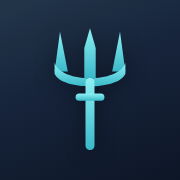
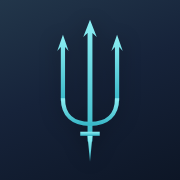
Redraw the trident after the island artwork
The mark was three plain tines on a crescent — legible, but generic. It is now
drawn from the trident on the island's own logo: slender spikes with
swept-back arrowhead barbs, rising from a deep bowl, on a shaft that tapers to
a point.

Getting there meant cropping and enlarging the artwork rather than working
from the thumbnail. At a glance the outer tines look like curved blades on a
crossbar, and two attempts at that read as a signpost. Enlarged, the
construction is a psi: every tine is a thin spike with an arrowhead, and the
outer two sweep down and inward in a single bowl. That is a different shape
entirely, and it is the one that matches.

The bowl is a stroke rather than part of the filled outline. As a filled path
its inner curve left a visible notch where it met the shaft; a stroke overlaps
both cleanly and holds its weight at any size.

The browser tab icon keeps the older, heavier trident on purpose. These spikes
are elegant at 32px and mush at 16px, which is the size a tab actually gets.
The iOS home screen icon renders at 92px and takes the detailed mark.

Claude-Session: https://claude.ai/code/session_01MSLbbeZ2Y4KS9S9Uta44MV

Changed region(s): [[0.2778, 0.1111, 0.7222, 0.8889]]

diff --git a/web/components/ui/TridentMark.tsx b/web/components/ui/TridentMark.tsx
@@ -1,14 +1,20 @@
 /**
- * The Trident Island mark.
+ * The Trident Island mark, after the trident on the island's own artwork:
+ * three slender spikes with swept-back arrowhead barbs, rising from a deep
+ * bowl, on a shaft that tapers to a point.
  *
- * Drawn inline rather than shipped as an asset: it stays sharp at any size,
- * costs no extra request, and picks up whatever colour it's placed in. Sizing
- * comes from the className (the viewBox is 32×44, so it's taller than wide —
- * give it a height, not a width).
+ * Drawn inline rather than shipped as an asset so it stays sharp at any size,
+ * costs no extra request, and takes its colour from wherever it's placed.
+ * Sizing comes from the className — the viewBox is 34×54, taller than wide, so
+ * give it a height rather than a width.
  *
- * The geometry is deliberately simple. Three straight tines and a crescent
- * yoke survive being drawn at 16px in a browser tab, which barbs and tapered
- * curves do not.
+ * The bowl is a stroke rather than part of the outline. As a filled path its
+ * inner curve left a small notch where it met the shaft; a stroke overlaps
+ * both cleanly and keeps its weight when the mark is scaled.
+ *
+ * This is the detailed mark, for anywhere it renders at ~32px or larger. The
+ * browser tab icon (app/icon.svg) stays a heavier, simpler trident, because
+ * these spikes go to mush at 16px.
  */
 
 type Props = {
@@ -20,24 +26,31 @@ type Props = {
 export function TridentMark({ className = "h-10", title }: Props) {
   return (
     <svg
-      viewBox="0 0 32 44"
+      viewBox="0 0 34 54"
       className={className}
-      fill="currentColor"
       role={title ? "img" : undefined}
       aria-hidden={title ? undefined : true}
       aria-label={title}
     >
       {title ? <title>{title}</title> : null}
-      {/* Centre spear */}
-      <path d="M16 1.4 L17.9 8 L17.9 18 L14.1 18 L14.1 8 Z" />
-      {/* Outer tines */}
-      <path d="M6.0 2.6 L8.6 15.8 L4.2 15.8 Z" />
-      <path d="M26.0 2.6 L27.8 15.8 L23.4 15.8 Z" />
-      {/* Yoke joining the tines to the shaft */}
-      <path d="M4.2 13.0 C6.6 19.8 25.4 19.8 27.8 13.0 L27.8 16.6 C25.4 22.2 6.6 22.2 4.2 16.6 Z" />
-      {/* Shaft and collar */}
-      <rect x="14.5" y="18" width="3" height="24" rx="1.4" />
-      <rect x="11.2" y="23.2" width="9.6" height="2.4" rx="1.2" />
+      <g fill="currentColor">
+        {/* Centre spike and shaft */}
+        <path d="M17 1 L19.5 7.4 L17.9 5.9 L17.9 46 L16.1 46 L16.1 5.9 L14.5 7.4 Z" />
+        {/* Tapered point */}
+        <path d="M16.1 44 L17.9 44 L17 53.4 Z" />
+        {/* Outer spikes */}
+        <path d="M7 6.6 L9.1 12.6 L7.78 11.1 L7.78 31 L6.22 31 L6.22 11.1 L4.9 12.6 Z" />
+        <path d="M27 6.6 L29.1 12.6 L27.78 11.1 L27.78 31 L26.22 31 L26.22 11.1 L24.9 12.6 Z" />
+        {/* Collar */}
+        <path d="M13.4 42.4 L20.6 42.4 L20.6 43.9 L13.4 43.9 Z" />
+      </g>
+      {/* Bowl sweeping the outer spikes into the shaft */}
+      <path
+        d="M7 30 C7 36.4, 10.8 39.5, 17 39.5 C23.2 39.5, 27 36.4, 27 30"
+        fill="none"
+        stroke="currentColor"
+        strokeWidth="1.56"
+      />
     </svg>
   );
 }
